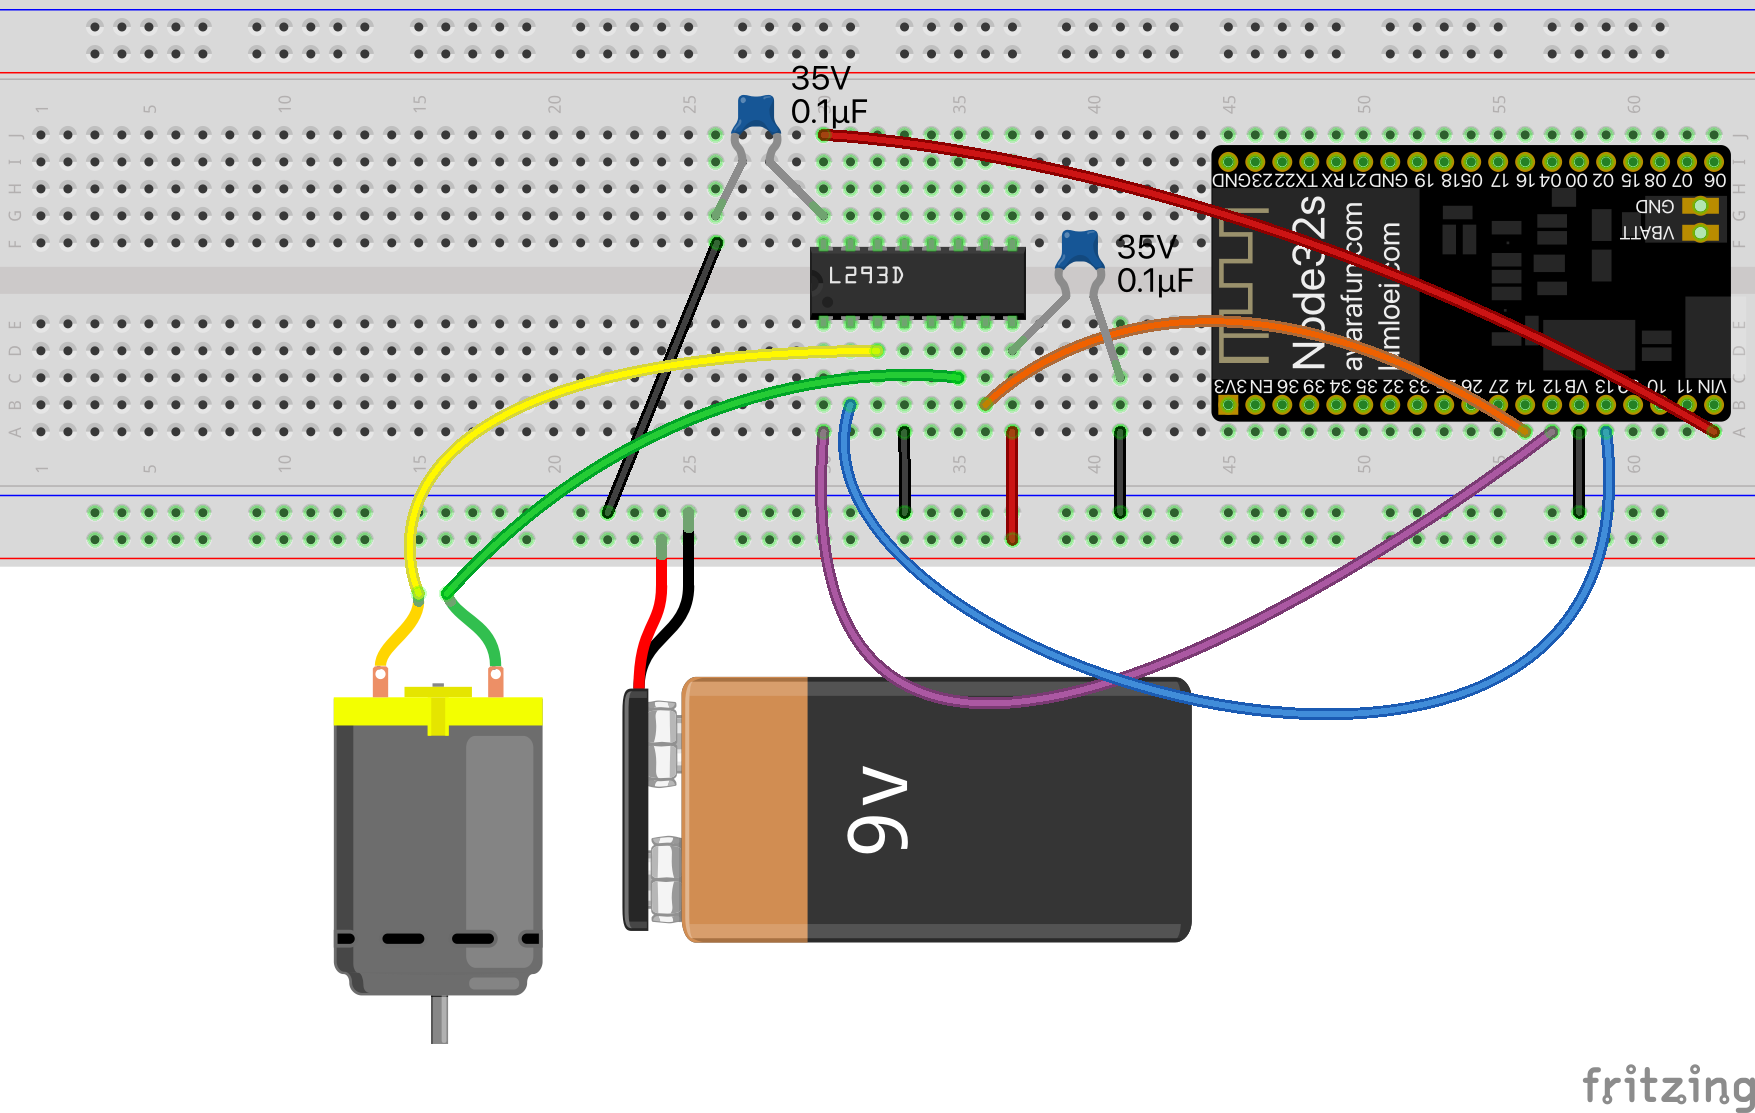
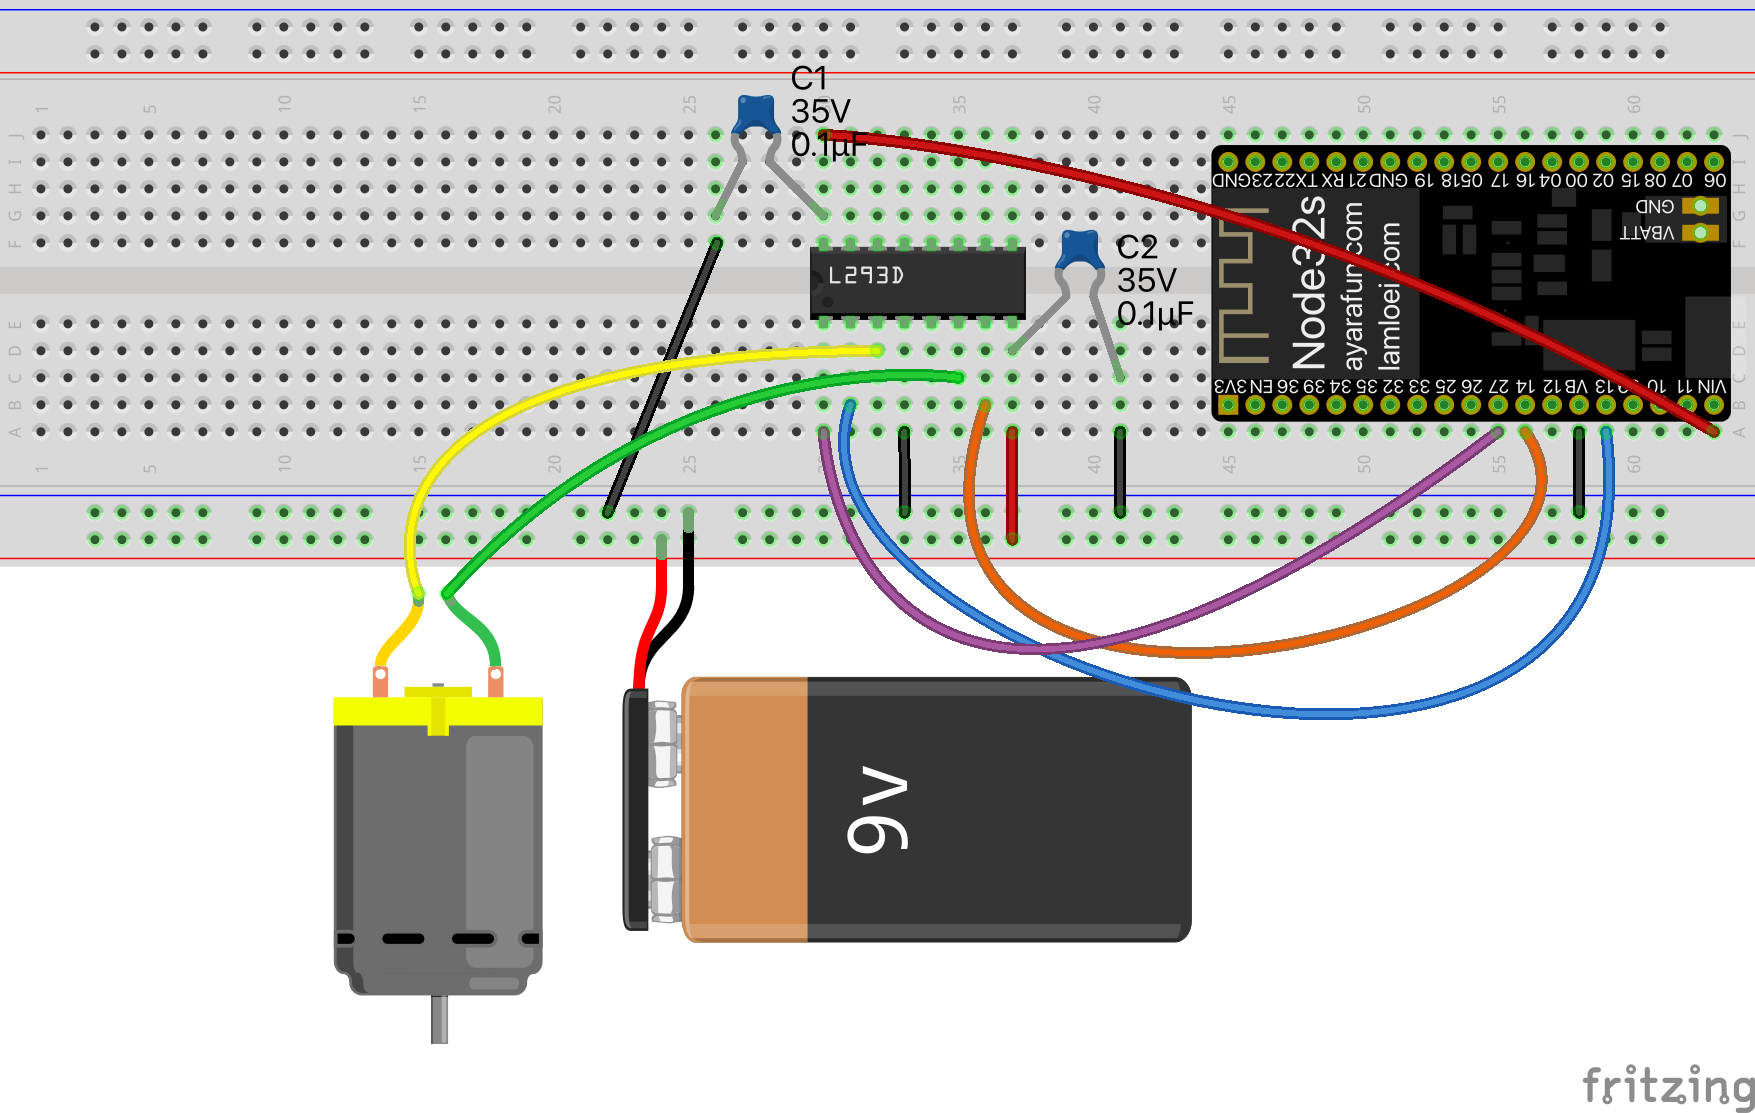
Refactor motor control functions and update PWM settings for improved performance

diff --git a/11_motor/motor_pwm.cpp b/11_motor/motor_pwm.cpp
@@ -2,61 +2,58 @@
 
 int motor1A = 13;
 int motor2A = 14;
-int enableA = 12;
+int enableA = 27;
 
 // PWM settings
-const int freq = 5000; // PWM frequency: 5 kHz (Adjust 2-20 kHz as needed)
+const int freq = 20000; // PWM frequency: 20 kHz (Adjust 2-20 kHz as needed)
 const int resolution = 8; // PWM resolution: 8 bits (dutyCycle: 0-255)
-// const int pwmChannel = 0; // Use channel 0 for both motors
-int dutyCycle = 200;
+
+
+void stop(int rtime) {
+  digitalWrite(motor1A, LOW);
+  digitalWrite(motor2A, LOW);
+  ledcWrite(enableA, 0);
+  delay(rtime);
+}
+
+void forward(int spd, int rtime) {
+  digitalWrite(motor1A, HIGH);
+  digitalWrite(motor2A, LOW);
+  ledcWrite(enableA, spd);
+  delay(rtime);
+}
+
+void reverse(int spd, int rtime) {
+  digitalWrite(motor1A, LOW);
+  digitalWrite(motor2A, HIGH);
+  ledcWrite(enableA, spd);
+  delay(rtime);
+}
+
+
 
 void setup() {
+  Serial.begin(115200);
   pinMode(motor1A, OUTPUT);
   pinMode(motor2A, OUTPUT);
-  pinMode(enableA, OUTPUT);
 
     // Set up PWM
   ledcAttach(enableA, freq, resolution);
-  ledcWrite(enableA, dutyCycle);  // Enable motor with initial duty cycle
-  Serial.begin(115200);
-  Serial.println("Testing DC Motor...");
+  ledcWrite(enableA, 0);  // Start with motor stopped
 }
 
+
 void loop() {
-  // Move the DC motor forward at maximum speed
-  Serial.println("Moving Forward");
-  digitalWrite(motor1A, LOW);
-  digitalWrite(motor2A, HIGH); 
-  delay(2000);
-
-  // Stop the DC motor
-  Serial.println("Motor stopped");
-  digitalWrite(motor1A, LOW);
-  digitalWrite(motor2A, LOW);
-  delay(1000);
-
-  // Move DC motor backwards at maximum speed
-  Serial.println("Moving Backwards");
-  digitalWrite(motor1A, HIGH);
-  digitalWrite(motor2A, LOW); 
-  delay(2000);
-
-  // Stop the DC motor
-  Serial.println("Motor stopped");
-  digitalWrite(motor1A, LOW);
-  digitalWrite(motor2A, LOW);
-  delay(1000);
+  forward(255, 2000); // Move forward at speed 255 for 2 seconds
+  stop(1000);         // Stop for 1 second
+  reverse(200, 2000); // Move backward at speed 200 for 2 seconds
+  stop(1000);         // Stop for 1 second
 
   // Move DC motor forward with increasing speed
-  digitalWrite(motor1A, HIGH);
-  digitalWrite(motor2A, LOW);
-  while (dutyCycle <= 255){
-    ledcWrite(enableA, dutyCycle);
-    // ledcWrite(pwmChannel, dutyCycle);
-    Serial.print("Forward with duty cycle: ");
-    Serial.println(dutyCycle);
-    dutyCycle = dutyCycle + 5;
-    delay(500);
+  for (int spd = 200; spd <= 255; spd += 5) {
+    Serial.println(spd);
+    forward(spd, 500);
   }
-  dutyCycle = 200;
+
+  stop(1000);
 }

diff --git a/src/main.cpp b/src/main.cpp
@@ -2,14 +2,11 @@
 
 int motor1A = 13;
 int motor2A = 14;
-int enableA = 12;
+int enableA = 27;
 
 // PWM settings
 const int freq = 20000; // PWM frequency: 20 kHz (Adjust 2-20 kHz as needed)
 const int resolution = 8; // PWM resolution: 8 bits (dutyCycle: 0-255)
-int speed = 0;
-
-
 
 
 void stop(int rtime) {
@@ -23,6 +20,7 @@ void forward(int spd, int rtime) {
   digitalWrite(motor1A, HIGH);
   digitalWrite(motor2A, LOW);
   ledcWrite(enableA, spd);
+  delay(rtime);
 }
 
 void reverse(int spd, int rtime) {
@@ -41,22 +39,22 @@ void setup() {
 
     // Set up PWM
   ledcAttach(enableA, freq, resolution);
-  ledcWrite(enableA, speed);  // Enable motor with initial speed
+  ledcWrite(enableA, 0);  // Start with motor stopped
 }
 
 
 
 void loop() {
-  // forward(255, 2000); // Move forward at speed 200 for 2 seconds
-  // stop(1000);         // Stop for 1 second
-  reverse(195, 2000); // Move backward at speed 200 for 2 seconds
-  // stop(1000);         // Stop for 1 second
+  forward(255, 2000); // Move forward at speed 255 for 2 seconds
+  stop(1000);         // Stop for 1 second
+  reverse(200, 2000); // Move backward at speed 200 for 2 seconds
+  stop(1000);         // Stop for 1 second
 
   // Move DC motor forward with increasing speed
-  // for (int spd = 0; spd <= 255; spd += 5) {
-  //   Serial.println(spd);
-  //   reverse(spd, 500);
-  // }
+  for (int spd = 200; spd <= 255; spd += 5) {
+    Serial.println(spd);
+    forward(spd, 500);
+  }
 
-  // stop(1000);
+  stop(1000);
 }
